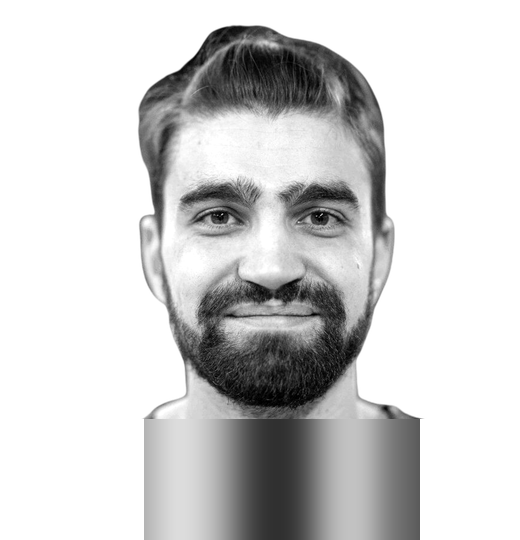
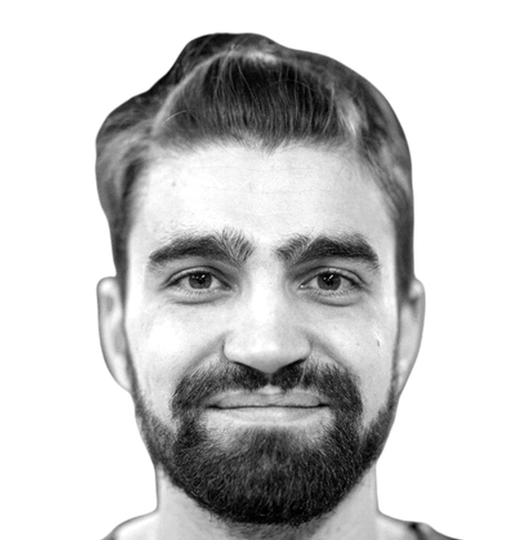
fix: frame every speaker cutout so the body reaches the bottom
Drop the filler under the body: each cutout is scaled up until its last solid
row is the bottom row (x1.07 to x1.41) and cropped around the body's
horizontal centre, the way Ryan and Daniel already were. fill_below_body.py
is removed; cutouts.py zooms every new cutout.

diff --git a/scripts/zoom_to_body.py b/scripts/zoom_to_body.py
@@ -1,15 +1,16 @@
 """
 Zooms a speaker cutout in until the body reaches the bottom edge.
 
-For cutouts where filling the band under the body looks wrong (the body ends
-where the plate valleys are, so the fill shows), scale the whole cutout up
-instead: the body's last solid row lands on the bottom row, the head grows by
-the same factor, and the sides are cropped evenly. Image size is unchanged.
+The source photos often end at the torso or neck, so the cutout crop extends
+past the body and leaves transparent rows at the bottom, which would show as
+paper in the plate's valleys. Scale the whole cutout up instead: the body's last
+solid row lands on the bottom row, the head grows by the same factor, and the
+sides are cropped around the body's horizontal centre. Image size is unchanged.
 
-  python3 scripts/zoom_to_body.py src/images/people/ryan-townsend-cutout.png   # in place
+  python3 scripts/zoom_to_body.py src/images/people/*-cutout.png   # in place
 
-Run it on a fresh cutout, not on one that was already filled or zoomed. Needs
-only pillow and numpy. cutouts.py runs it for the people listed in ZOOMED.
+Run it on fresh cutouts, not on ones that were already zoomed. Needs only pillow
+and numpy. cutouts.py runs it on every new cutout.
 """
 import sys
 
@@ -33,7 +34,10 @@ def zoom_to_body(path: str) -> float:
     edge = max(int(solid_rows.max()) - SAFE_MARGIN, 0)
     scale = height / (edge + 1)
     zoomed = im.resize((round(width * scale), round(height * scale)), Image.LANCZOS)
-    left = (zoomed.width - width) // 2
+    # keep the body's horizontal centre in the middle of the crop, within the image
+    weights = np.asarray(zoomed)[:, :, 1].sum(axis=0).astype(np.float64)
+    centre = (np.arange(zoomed.width) * weights).sum() / max(weights.sum(), 1)
+    left = int(round(np.clip(centre - width / 2, 0, zoomed.width - width)))
     zoomed.crop((left, 0, left + width, height)).save(path, optimize=True)
     return scale
 

diff --git a/scripts/cutouts.py b/scripts/cutouts.py
@@ -17,7 +17,6 @@ import importlib.util
 import os
 import sys
 
-from fill_below_body import fill_below_body
 from zoom_to_body import zoom_to_body
 
 import numpy as np
@@ -31,9 +30,6 @@ spec.loader.exec_module(cutout)
 
 original_mask = cutout.mask
 current = {"name": ""}
-
-# Cutouts where filling under the body shows in the plate valleys: zoom in instead.
-ZOOMED = {"daniel-roe", "ryan-townsend"}
 
 
 def polygon_mask(size, head_ellipse, body_polygon):
@@ -77,9 +73,6 @@ if __name__ == "__main__":
         current["name"] = name
         out = f"{os.environ['OUT_DIR']}/{name}-cutout.png"
         cutout.process(file, out)
-        # no transparent band under the body: zoom in where a fill would show
-        if name in ZOOMED:
-            note = f"zoomed x{zoom_to_body(out):.2f}"
-        else:
-            note = f"filled {fill_below_body(out)}px under the body"
+        # no transparent band under the body: zoom in until it reaches the bottom
+        note = f"zoomed x{zoom_to_body(out):.2f}"
         print("wrote", name, f"({note})")
